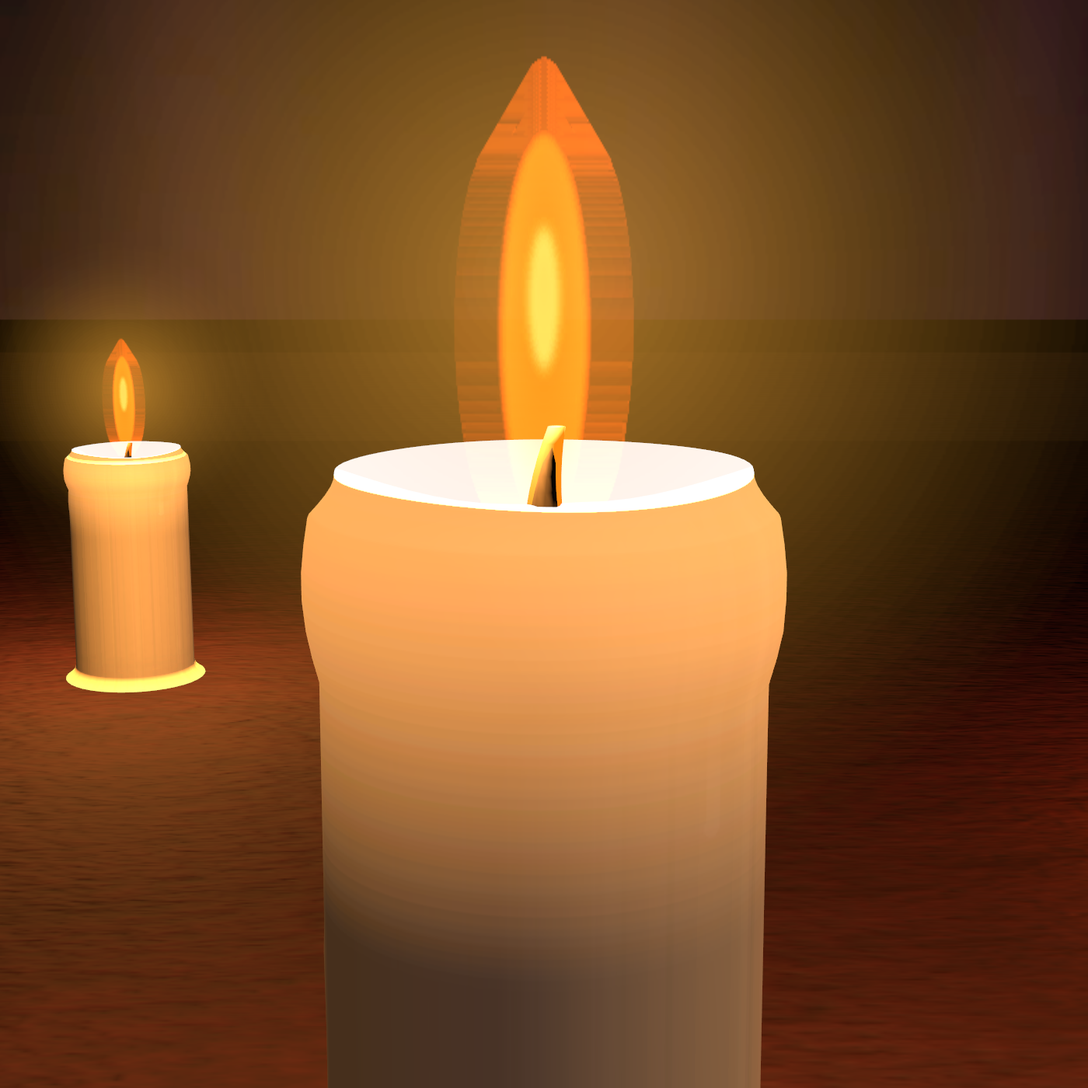
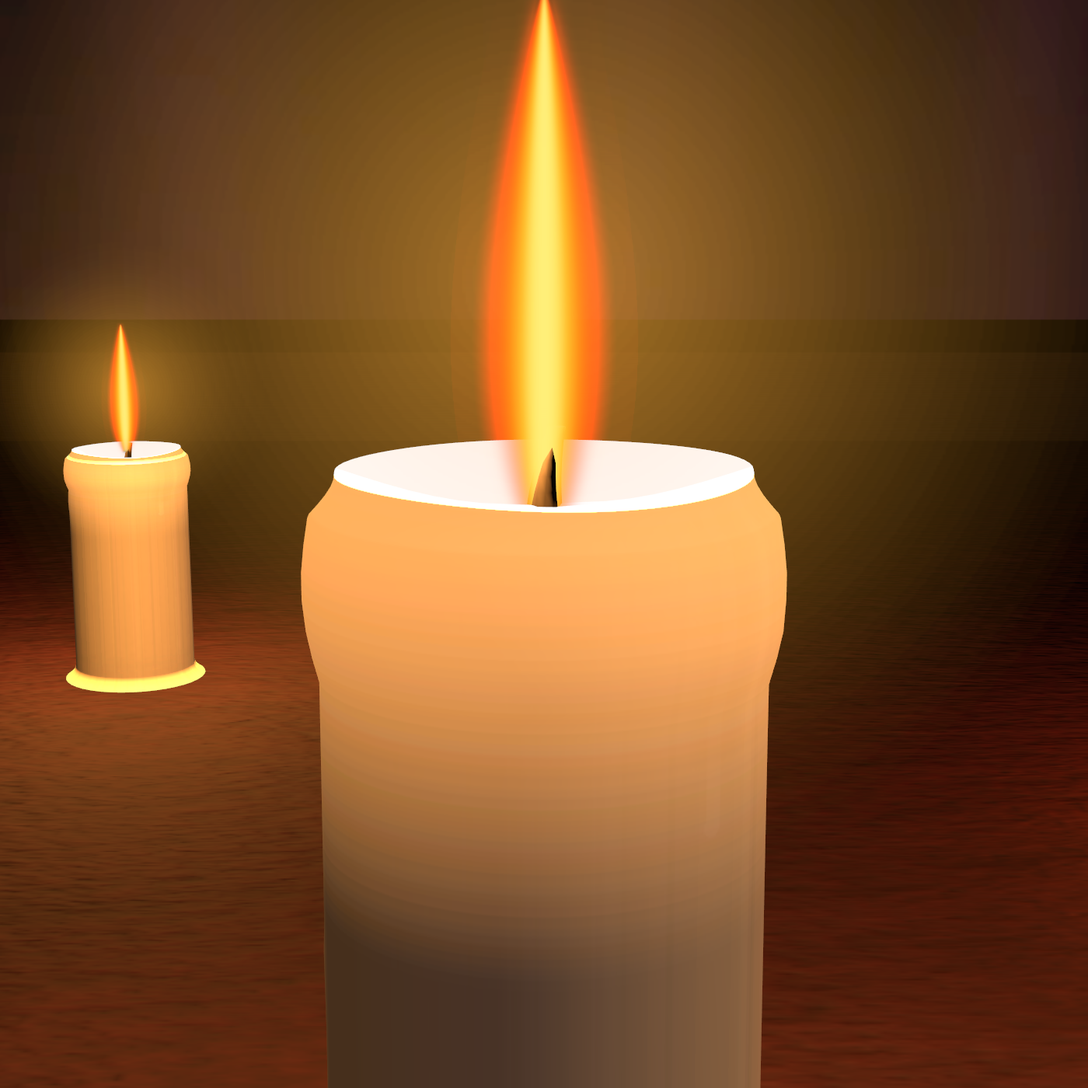
Phase 59: rebuild the candle flame (fix compression banding)
The candle flame is the brightest, most-looked-at object in both scenes and
was the worst: horizontal banding like venetian blinds plus a stepped hard
edge. Root cause was not the art — the 256px source was a clean gradient — but
its importer: a flame is a pure gradient, the single worst case for block
(DXT/BC) compression, which quantised the ramp into visible steps.

- Replace CandleFlame.png with a reproducible 512px flame from a new generator,
  Tools/UiKitGenerator/gen_flame.py (matching the gen_wax pipeline): a true
  candle silhouette (rounded base hugging the wick, low belly, tapered point),
  a heat ramp amber->gold->near-white core, a cool blue root, and a wide soft
  outer glow.
- Import uncompressed so the gradient stays smooth (~0.25 MB RGBA, trivial).
- Phase59FlameQualityTests guards the fix at its weak points: texture >=512,
  imported Uncompressed, generator present on disk, doc present.
- Regenerated the HD archive and Phase 57 candle close-ups on the new flame.

EditMode 282/282, PlayMode 33/33.

Changed region(s): [[0.3993, 0.0, 0.5836, 0.4607], [0.0921, 0.3071, 0.1536, 0.43]]

diff --git a/UnityClient/TarotUnity/Tools/UiKitGenerator/gen_flame.py b/UnityClient/TarotUnity/Tools/UiKitGenerator/gen_flame.py
@@ -1,0 +1,85 @@
+import math
+from PIL import Image, ImageFilter
+
+S = 512
+
+def smooth(t):
+    t = max(0.0, min(1.0, t))
+    return t*t*(3-2*t)
+
+def flame_field(x, y):
+    # normalized coords: u across (-1..1), v up (0 base .. 1 tip)
+    u = (x/S - 0.5) * 2.0
+    v = 1.0 - y/S
+    # teardrop half-width profile: fat low, pinched tip, tucked base
+    if v <= 0.0 or v >= 0.97:
+        return 0.0
+    peak = 0.22            # widest just above the wick
+    wmax = 0.30            # half-width at the belly
+    wbase = 0.16           # the flame still hugs the wick, not a point
+    if v < peak:
+        # round out from the wick to the belly
+        width = wbase + (wmax - wbase) * smooth(v / peak)
+    else:
+        # taper the long way to a soft point at the tip
+        t = (v - peak) / (0.97 - peak)
+        width = wmax * (1.0 - smooth(t)) ** 0.85
+    width = max(width, 0.008)
+    d = abs(u) / width            # 0 at axis, 1 at edge
+    if d >= 1.0:
+        return 0.0
+    # soft radial falloff across the flame body
+    return smooth(1.0 - d)
+
+def colour(intensity, v):
+    # intensity 0..1 maps through a heat ramp; base gets a cool blue tuck
+    i = intensity
+    if i <= 0:
+        return (0,0,0,0)
+    # heat ramp: outer amber -> orange -> gold -> near-white core
+    stops = [
+        (0.00, (60, 20, 4)),
+        (0.30, (196, 78, 16)),
+        (0.55, (240, 140, 40)),
+        (0.78, (255, 200, 96)),
+        (0.92, (255, 240, 200)),
+        (1.00, (255, 252, 244)),
+    ]
+    c = stops[-1][1]
+    for k in range(len(stops)-1):
+        a0,c0 = stops[k]; a1,c1 = stops[k+1]
+        if a0 <= i <= a1:
+            t = (i-a0)/(a1-a0)
+            c = tuple(int(c0[j]+(c1[j]-c0[j])*t) for j in range(3))
+            break
+    r,g,b = c
+    # cool blue root: just above the wick the flame burns bluish
+    root = smooth((0.16 - v)/0.16) if v < 0.16 else 0.0
+    if root > 0:
+        br,bg,bb = (90,140,220)
+        r = int(r*(1-root*0.7)+br*root*0.7)
+        g = int(g*(1-root*0.4)+bg*root*0.4)
+        b = int(b*(1-root*0.2)+bb*root*0.2)
+    a = int(255 * smooth(i))
+    return (r,g,b,a)
+
+img = Image.new("RGBA",(S,S),(0,0,0,0))
+px = img.load()
+for y in range(S):
+    for x in range(S):
+        f = flame_field(x,y)
+        if f>0:
+            # bias intensity toward the core so the hot centre is compact
+            px[x,y] = colour(math.pow(f, 0.85), 1.0-y/S)
+
+# gentle blur unifies the ramp; a wide soft outer glow is added underneath
+core = img.filter(ImageFilter.GaussianBlur(2.5))
+glow = img.filter(ImageFilter.GaussianBlur(14))
+glow_px = glow.load()
+for y in range(S):
+    for x in range(S):
+        r,g,b,a = glow_px[x,y]
+        glow_px[x,y] = (min(255,int(r*1.1)), int(g*0.85), int(b*0.6), int(a*0.5))
+out = Image.alpha_composite(glow, core)
+out.save("CandleFlame.png")
+print("saved CandleFlame_new.png", out.size)

diff --git a/UnityClient/TarotUnity/Assets/Tests/EditMode/Phase59FlameQualityTests.cs b/UnityClient/TarotUnity/Assets/Tests/EditMode/Phase59FlameQualityTests.cs
@@ -1,0 +1,59 @@
+using System.IO;
+using NUnit.Framework;
+using UnityEditor;
+using UnityEngine;
+
+namespace TarotUnity.Tests.EditMode
+{
+    /// <summary>
+    /// Phase 59 replaces the candle flame billboard. The old CandleFlame.png was a
+    /// 256px sprite imported Compressed, and a flame is a pure smooth gradient -
+    /// the one content type that block compression turns into horizontal banding.
+    /// It was also a mystery asset with no generator. These guard the fix: a
+    /// high-resolution, uncompressed texture with a reproducible generator behind it.
+    /// </summary>
+    public sealed class Phase59FlameQualityTests
+    {
+        private const string TexturePath = "Assets/Art/MidnightParlor/Sprites/CandleFlame.png";
+        private const string GeneratorPath = "Tools/UiKitGenerator/gen_flame.py";
+        private const string DocPath = "Docs/PHASE59_FLAME_QUALITY.md";
+
+        [Test]
+        public void TheFlameTextureIsHighResolution()
+        {
+            var tex = AssetDatabase.LoadAssetAtPath<Texture2D>(TexturePath);
+            Assert.That(tex, Is.Not.Null, $"flame texture missing at {TexturePath}");
+            Assert.That(Mathf.Min(tex.width, tex.height), Is.GreaterThanOrEqualTo(512),
+                "the 256px flame magnified to a soft-edged blob; 512+ holds the taper");
+        }
+
+        [Test]
+        public void TheFlameTextureIsImportedUncompressed()
+        {
+            var importer = AssetImporter.GetAtPath(TexturePath) as TextureImporter;
+            Assert.That(importer, Is.Not.Null);
+
+            // A flame is a pure gradient - block compression bands it into venetian
+            // blinds. The default platform settings must not compress it.
+            var defaults = importer.GetDefaultPlatformTextureSettings();
+            Assert.That(defaults.textureCompression, Is.EqualTo(TextureImporterCompression.Uncompressed),
+                "the flame is a smooth gradient; compression banded it - keep it uncompressed");
+        }
+
+        [Test]
+        public void TheFlameHasAReproducibleGenerator()
+        {
+            Assert.That(File.Exists(GeneratorPath), Is.True,
+                $"the flame must be reproducible from {GeneratorPath}, like the wax maps");
+        }
+
+        [Test]
+        public void Phase59DocumentationExists()
+        {
+            Assert.That(File.Exists(DocPath), Is.True, $"Missing Phase59 doc at {DocPath}");
+            var text = File.ReadAllText(DocPath);
+            Assert.That(text, Does.Contain("flame"));
+            Assert.That(text, Does.Contain("compression"));
+        }
+    }
+}

diff --git a/UnityClient/TarotUnity/README.md b/UnityClient/TarotUnity/README.md
@@ -99,4 +99,4 @@ Expected local flow:
 
 `Start Reading -> choose spread -> enter question -> Draw -> click cards to flip -> Reveal Result`
 
-The current slice can run with local placeholder data or the Phase 4 backend integration mode. Phase 6 adds desktop runtime config plus generated macOS and Windows prototype build paths. Phase 7 upgrades the vertical slice UI toward an immersive ritual desktop prototype. Phase 8 adds the first visual identity pass for the table, cards, result frame, and theme palette. Phase 9 adds card-game rhythm scaffolding for shuffle, deal, flip, and result reveal. Phase 10 adds release package readme/config files and player-readable offline/backend status copy. Phase 11 adds screenshot-based visual review artifacts and a first layout adjustment pass. Phase 12 adds card-first reveal anchors and a durable card face-art slot. Phase 13 adds the RWS1909 tarot artwork pipeline, default card artwork catalog, and ReadingRoom/Result scene wiring for real card-face sprites. Phase 14 adds a 2.5D dimensional card reveal layer, card edge/shadow/glow anchors, and stage polish around the existing real card art. Phase 15 adds the first 3D table foundation with card mesh-shell anchors, ritual table depth, warm/cool lighting, and Result card-stage support. Phase 16 adds a controlled ritual aura VFX layer with glow pools, rune-ring anchors, particle anchor markers, and Result aura support. Phase 17 adds lightweight runtime aura motion for rune-ring rotation, glow pulsing, and particle-anchor drift. Phase 18 adds the first true ParticleSystem layer for ambient dust, deck focus, flip sparkle, and Result card motes while preserving the vertical slice. Phase 19 connects shuffle, deal, flip, and result cues to that particle layer through action-triggered VFX integration. Phase 20 enables the cinematic rendering pipeline: HDR color grading, ACES tonemapping, bloom, vignette, SMAA, and HDR-boosted glow/emissive materials across MainMenu, ReadingRoom, and Result. Phase 21 replaces the prototype camera with seated cinematic framing (narrow FOV, research-driven poses), idle breathing, an opening settle-in shot, and a flip punch-in reaction. Phase 22 re-composes the ReadingRoom UI for that camera: a clear card stage band, a bottom action tray holding every clickable control, deactivated flat-era table overlays, and a deck stack visible in the default framing. Phase 23 adds card physicality: hover lift/tilt on face-down cards with near-100ms response, plus research-backed rhythm tuning for the flip punch, flip lift, and deal interval. Phase 24 gives the all-Chinese UI a real typographic identity: it bundles the LXGW WenKai (SIL OFL) calligraphic font so text no longer falls back to an inconsistent OS sans-serif, then bakes a body/display type hierarchy with title outlines across MainMenu, ReadingRoom, and Result through a central TarotUiTheme font system. Phase 25 re-composes the Result payoff screen on rule-of-thirds lines: a full-width gold question header, the drawn card's artwork as a hero in the left third, the AI interpretation as aligned gold-header/ivory-body pairs on a backing panel in the right two-thirds, and a centered footer, with redundant flat-era overlays deactivated and a TarotUiAccentText marker keeping headers gold at runtime. Phase 26 hardens that reading for variable-length backend AI text: each interpretation section uses best-fit text so long copy shrinks to fit its box instead of overflowing into the next section, while short copy stays at full size. Phase 27 upgrades the card faces to HD: all 78 authentic public-domain Rider-Waite-Smith 1909 scans were re-sourced at high resolution (~740x1280), imported as sprites, and wired through the catalog so flipping a card and the result hero show crisp art. Phase 28 gives the flipped card face a holographic foil sheen: a custom URP shader adds a view-angle glare band plus subtle iridescence that sweeps as the card tilts, so the HD face reads as a glossy, dimensional object. Phase 29 replaces Phase 26's best-fit shrink with a true scrollable reading panel on the Result screen: the four interpretation sections are reparented into a vertical ScrollRect (RectMask2D viewport + VerticalLayoutGroup/ContentSizeFitter Content), so any length of backend AI text renders at full size and scrolls instead of shrinking or overflowing. Phase 30 unifies the three screens' secondary spacing/alignment: a read-only layout audit confirmed they already share one CanvasScaler (1280x720, match 0.5) and symmetric centering, so this phase codifies that rhythm in a shared `TarotUiSpacing` source of truth and adds cross-screen regression tests rather than risk speculative repositioning. Phase 31 builds a complete HD visual archive (2560x1440) of the current screens - MainMenu, ReadingRoom, and the Result default/long-reading states - into `Docs/VisualReview/Phase31_HDArchive/` for review, and flags a card-face sizing question on the hero prefab (the HD sprites import larger than the face slot was tuned for) for a feedback-tuned follow-up. Phase 32 fixes that card-face bug: `CardView.FitFaceArtwork` sizes the face artwork to the card footprint regardless of sprite resolution/PPU, and the prefab lifts the face renderer clear of the cream front planes so it is no longer occluded - flipping a card now shows the HD art correctly sized and crisp on the card. Phase 33 gives the game actual sound: the audio system was fully wired but silent (empty cueMap, beep fallback), so this adds seven original royalty-free synthesized SFX (one per presentation cue) plus a looping ambient music bed, assigned on the persistent Boot `AudioManager`. Phase 34 adds a main-menu quit button so desktop players can exit in-game. Phase 35 repairs three visual-review defects: the leftover 3D result card stage no longer peeks out from behind the reading panel, the flat-era ResultReadingFrame no longer darkens the hero card slot with a seam, and the main menu now reads as primary plate / status line / quiet quit link. Phase 36 is the first performance pass: the flip path no longer scans the scene per click, a PlayMode probe measures the real three-card slice (steady state is allocation-free, main-thread frames ~0.1 ms in batch), and the doc records how to read real GPU numbers with the Metal HUD. Phase 37 opens the Midnight Parlor visual redesign (Hearthstone-benchmark research, art direction, CC0 PBR surfaces, and a locally composed gold UI kit with a celestial card back; provenance in `Docs/THIRD_PARTY_ASSETS.md`). Phase 38 rebuilds the ReadingRoom on that foundation: one velvet-and-walnut table stage with gold card sockets, a staggered deck stack, and the real composed card back on the card prefab, with the superseded flat-plane era deleted and guarded against resurrection. Phase 39 reskins the ReadingRoom chrome onto that table: the step tracker, action dock, question input, and all four buttons wear the gold nine-slice plaques, with clean button ColorBlocks and the redundant flat-era frames deactivated. Phase 40 re-composes the MainMenu (candlelit tabletop vignette: deck stack, scattered cards, candle halos replace the deleted disc/slab) and the Result screen (gold-framed hero showcase and reading scroll, diamond dividers, radial candle glow) on the same stage. Phase 41 closes the redesign out: HD archive regenerated on the new look, 14 orphaned legacy materials swept after a GUID reference check, suites green, fresh desktop build. Phase 42 answers the first playthrough: the player now presents as a borderless fullscreen window at native resolution (a stretched fixed 720p window, not render scale or post-processing, was what softened every glyph), and the main menu is restaged as a lit room - stock daylight skybox ambient replaced with a near-black floor so the candles own the lighting, a seated 27deg/36mm framing instead of a 10.8deg wide-angle, a composed parlor haze instead of a black void, real candles with emissive wax, and a deep-oxblood velvet that lets the gold read. Phase 43 changes the text rendering method itself to TextMeshPro SDF (dynamic atlas, so arbitrary backend Chinese still works - the reason Phase 24 rejected TMP no longer holds), gilds the menu title with a real shader gradient and stroke, and fixes the sharpness regression Phase 42 never actually shipped: the Phase 6 build setup was silently reverting the fullscreen/resolution fix before every build. Phase 44 answers the second menu review: the loose cards no longer clip (they were coplanar), the copy speaks in ritual (入席问牌 / 离席) instead of instructions, the centre column offers one way in with the status line at the foot and quit as a bottom-right link, and the table carries an arcane circle decal, dust motes and trinkets. Phase 45 fills the menu's mid-ground - velvet drapery in the backdrop, a violet-lit scrying orb (the palette's one cold note), a censer with burning coals and smoke, and two more candles at a second depth - and binds the type into one block with a gold rule and tracked display cut. Phase 46 rebuilds the candles as wax rather than tubing - a poured grain with drips and soot, and a translucency map so the flame lights the wax it sits in instead of the whole stick at one value - and gives every flame a seeded two-band Perlin flicker. Phase 47 makes the scrying orb read as glass with a custom Fresnel/parallax-interior shader (the geometry was never the problem - a downloaded asset would have been a sphere plus someone else's art direction), bevels the primary button, and lifts the deck's tint so its stacked edges can be counted. Phase 48 measures the menu backdrop's geometric ceiling: at this camera the highest visible world Y at the backdrop's depth is 0.34, so a lamp/window/picture cannot be in shot and Phase 45's drapery was never on screen (now regenerated into the visible band). The moonlight it attempted was dropped as unverifiable. Phase 49 starts on the screen the player actually sits in: the ReadingRoom still ran Unity's daylight skybox ambient over a midnight room, and nothing in it emitted light at all. It now carries the menu's lighting contract and four real candles. Phase 50 finishes the TMP migration Phase 43 started, on that same screen: the ReadingRoom's 15 legacy UI.Text (which soften at the built resolution) all become TextMeshPro SDF, and the one element the menu never had - the question field - is rebuilt from a legacy InputField into a TMP_InputField (correct masked Text Area, an ivory caret that is actually visible on the dark ground, an italic muted placeholder), with ReadingRoomController's four fields re-typed to the TMP equivalents. Phase 51 completes the migration on the Result screen - its 13 legacy Text become TMP SDF (ResultPanelPresenter's seven readouts, four of them carrying arbitrary-length backend AI copy, re-typed to TMP_Text; the Phase 29 reading scroll still works), and the scene adopts the same Flat ambient contract as the other two, stated honestly as a data-correctness change since this Overlay-over-solid-clear screen shows no visible difference from it. All three shipping screens are TMP SDF now, with no legacy UI.Text or InputField remaining anywhere. Phase 52 is a game-feel pass on the card flip and the camera: the flip gains real weight - a wind-up dip, an accelerate-through-the-reveal whip (it used to crawl at the edge-on seam), a scale pop on the face, and a rotational overshoot that damps to an exact rest - and the camera now fires its impact shake on the exact reveal frame instead of at the earlier lean-in peak, so the punch lands with the face. Every motion is a serialized knob on CardFlipController; a PlayMode test proves the flip's secondary motion is present and settles without drift, though the feel itself is the player's to judge. Phase 53 brings the holographic foil (Phase 28's, on the flipped 3D face) to the Result hero card: since that card is a UI Image on an Overlay canvas with no view angle, a new UI shader (`TarotUnity/HolographicCardUI`) carries the same glare/iridescence driven by a fed-in sheen uniform, and HolographicHeroCard animates it - a slow idle drift so the foil is always alive, and on hover the band follows the pointer while the card tilts toward it. Phase 54 gives the deal its landing: the dealt card used to fly its arc and then snap dead onto the slot, and now it touches down - a squash-and-recover on contact (−10% height, springing back to an exact rest over 0.14 s) with a subtle camera kick on the impact frame, the deal's counterpart to the flip's reveal shake, while the Phase 9 arc pacing stays untouched. Phase 55 completes the motion chain at its first beat: the shuffle used to be sound and dust over a perfectly still deck, and now the stack itself plays - a press-down anticipation, a riffle ripple running bottom-to-top through the stacked cards (each pops with a small twist and drops back with weight), a square-up squash with a camera kick on the contact frame, and an exact settle back to the authored stagger, timed to the Phase 9 shuffle breath. Phase 58 was opened to fix the menu's front candles rendering as saturated red instead of cream wax, and ended without touching a light or a material: the candles were never red, the capture pipeline was. The wax is RealtimeEmissive and realtime GI does not resolve on the frame a scene loads, so the first render reads RGB(246,77,23) and every render after it reads RGB(233,177,78) - and all fifteen capture builders rendered exactly once after opening a scene, meaning every visual review in this project was looking at unsettled lighting the player never saw. `CaptureRig.RenderConverged` now fronts all of them, with a test that fails on the next direct `Camera.Render()` anyone writes. Phase 57 models the candles instead of stacking them: a read-only diagnosis found every candle in both scenes was four Unity primitives at 20 radial segments, with a `Lip` disc wider than the body reading as a machined collar over a flat lid, so `CandleMeshBuilder` now lathes one continuous surface per candle along a real profile - pooled base, tapered body, melted shoulder, rolled rim, a burn crater dishing to the wick, an uneven burn line, and the nine drips as geometry at the exact angles the wax texture paints them. Phase 56 cuts release `0.9.0`, the presentation-complete build: the version had not moved since Phase 6 set it, so everything from the visual identity through the Midnight Parlor redesign, the TMP migration, and the full card motion chain had been shipping as `0.6.0`. It is held below 1.0 deliberately - the backend reading path is not yet verified end-to-end in a playthrough. The Windows release zip is generated at `Builds/Desktop/Release/TarotUnity-Windows-x64.zip`.
+The current slice can run with local placeholder data or the Phase 4 backend integration mode. Phase 6 adds desktop runtime config plus generated macOS and Windows prototype build paths. Phase 7 upgrades the vertical slice UI toward an immersive ritual desktop prototype. Phase 8 adds the first visual identity pass for the table, cards, result frame, and theme palette. Phase 9 adds card-game rhythm scaffolding for shuffle, deal, flip, and result reveal. Phase 10 adds release package readme/config files and player-readable offline/backend status copy. Phase 11 adds screenshot-based visual review artifacts and a first layout adjustment pass. Phase 12 adds card-first reveal anchors and a durable card face-art slot. Phase 13 adds the RWS1909 tarot artwork pipeline, default card artwork catalog, and ReadingRoom/Result scene wiring for real card-face sprites. Phase 14 adds a 2.5D dimensional card reveal layer, card edge/shadow/glow anchors, and stage polish around the existing real card art. Phase 15 adds the first 3D table foundation with card mesh-shell anchors, ritual table depth, warm/cool lighting, and Result card-stage support. Phase 16 adds a controlled ritual aura VFX layer with glow pools, rune-ring anchors, particle anchor markers, and Result aura support. Phase 17 adds lightweight runtime aura motion for rune-ring rotation, glow pulsing, and particle-anchor drift. Phase 18 adds the first true ParticleSystem layer for ambient dust, deck focus, flip sparkle, and Result card motes while preserving the vertical slice. Phase 19 connects shuffle, deal, flip, and result cues to that particle layer through action-triggered VFX integration. Phase 20 enables the cinematic rendering pipeline: HDR color grading, ACES tonemapping, bloom, vignette, SMAA, and HDR-boosted glow/emissive materials across MainMenu, ReadingRoom, and Result. Phase 21 replaces the prototype camera with seated cinematic framing (narrow FOV, research-driven poses), idle breathing, an opening settle-in shot, and a flip punch-in reaction. Phase 22 re-composes the ReadingRoom UI for that camera: a clear card stage band, a bottom action tray holding every clickable control, deactivated flat-era table overlays, and a deck stack visible in the default framing. Phase 23 adds card physicality: hover lift/tilt on face-down cards with near-100ms response, plus research-backed rhythm tuning for the flip punch, flip lift, and deal interval. Phase 24 gives the all-Chinese UI a real typographic identity: it bundles the LXGW WenKai (SIL OFL) calligraphic font so text no longer falls back to an inconsistent OS sans-serif, then bakes a body/display type hierarchy with title outlines across MainMenu, ReadingRoom, and Result through a central TarotUiTheme font system. Phase 25 re-composes the Result payoff screen on rule-of-thirds lines: a full-width gold question header, the drawn card's artwork as a hero in the left third, the AI interpretation as aligned gold-header/ivory-body pairs on a backing panel in the right two-thirds, and a centered footer, with redundant flat-era overlays deactivated and a TarotUiAccentText marker keeping headers gold at runtime. Phase 26 hardens that reading for variable-length backend AI text: each interpretation section uses best-fit text so long copy shrinks to fit its box instead of overflowing into the next section, while short copy stays at full size. Phase 27 upgrades the card faces to HD: all 78 authentic public-domain Rider-Waite-Smith 1909 scans were re-sourced at high resolution (~740x1280), imported as sprites, and wired through the catalog so flipping a card and the result hero show crisp art. Phase 28 gives the flipped card face a holographic foil sheen: a custom URP shader adds a view-angle glare band plus subtle iridescence that sweeps as the card tilts, so the HD face reads as a glossy, dimensional object. Phase 29 replaces Phase 26's best-fit shrink with a true scrollable reading panel on the Result screen: the four interpretation sections are reparented into a vertical ScrollRect (RectMask2D viewport + VerticalLayoutGroup/ContentSizeFitter Content), so any length of backend AI text renders at full size and scrolls instead of shrinking or overflowing. Phase 30 unifies the three screens' secondary spacing/alignment: a read-only layout audit confirmed they already share one CanvasScaler (1280x720, match 0.5) and symmetric centering, so this phase codifies that rhythm in a shared `TarotUiSpacing` source of truth and adds cross-screen regression tests rather than risk speculative repositioning. Phase 31 builds a complete HD visual archive (2560x1440) of the current screens - MainMenu, ReadingRoom, and the Result default/long-reading states - into `Docs/VisualReview/Phase31_HDArchive/` for review, and flags a card-face sizing question on the hero prefab (the HD sprites import larger than the face slot was tuned for) for a feedback-tuned follow-up. Phase 32 fixes that card-face bug: `CardView.FitFaceArtwork` sizes the face artwork to the card footprint regardless of sprite resolution/PPU, and the prefab lifts the face renderer clear of the cream front planes so it is no longer occluded - flipping a card now shows the HD art correctly sized and crisp on the card. Phase 33 gives the game actual sound: the audio system was fully wired but silent (empty cueMap, beep fallback), so this adds seven original royalty-free synthesized SFX (one per presentation cue) plus a looping ambient music bed, assigned on the persistent Boot `AudioManager`. Phase 34 adds a main-menu quit button so desktop players can exit in-game. Phase 35 repairs three visual-review defects: the leftover 3D result card stage no longer peeks out from behind the reading panel, the flat-era ResultReadingFrame no longer darkens the hero card slot with a seam, and the main menu now reads as primary plate / status line / quiet quit link. Phase 36 is the first performance pass: the flip path no longer scans the scene per click, a PlayMode probe measures the real three-card slice (steady state is allocation-free, main-thread frames ~0.1 ms in batch), and the doc records how to read real GPU numbers with the Metal HUD. Phase 37 opens the Midnight Parlor visual redesign (Hearthstone-benchmark research, art direction, CC0 PBR surfaces, and a locally composed gold UI kit with a celestial card back; provenance in `Docs/THIRD_PARTY_ASSETS.md`). Phase 38 rebuilds the ReadingRoom on that foundation: one velvet-and-walnut table stage with gold card sockets, a staggered deck stack, and the real composed card back on the card prefab, with the superseded flat-plane era deleted and guarded against resurrection. Phase 39 reskins the ReadingRoom chrome onto that table: the step tracker, action dock, question input, and all four buttons wear the gold nine-slice plaques, with clean button ColorBlocks and the redundant flat-era frames deactivated. Phase 40 re-composes the MainMenu (candlelit tabletop vignette: deck stack, scattered cards, candle halos replace the deleted disc/slab) and the Result screen (gold-framed hero showcase and reading scroll, diamond dividers, radial candle glow) on the same stage. Phase 41 closes the redesign out: HD archive regenerated on the new look, 14 orphaned legacy materials swept after a GUID reference check, suites green, fresh desktop build. Phase 42 answers the first playthrough: the player now presents as a borderless fullscreen window at native resolution (a stretched fixed 720p window, not render scale or post-processing, was what softened every glyph), and the main menu is restaged as a lit room - stock daylight skybox ambient replaced with a near-black floor so the candles own the lighting, a seated 27deg/36mm framing instead of a 10.8deg wide-angle, a composed parlor haze instead of a black void, real candles with emissive wax, and a deep-oxblood velvet that lets the gold read. Phase 43 changes the text rendering method itself to TextMeshPro SDF (dynamic atlas, so arbitrary backend Chinese still works - the reason Phase 24 rejected TMP no longer holds), gilds the menu title with a real shader gradient and stroke, and fixes the sharpness regression Phase 42 never actually shipped: the Phase 6 build setup was silently reverting the fullscreen/resolution fix before every build. Phase 44 answers the second menu review: the loose cards no longer clip (they were coplanar), the copy speaks in ritual (入席问牌 / 离席) instead of instructions, the centre column offers one way in with the status line at the foot and quit as a bottom-right link, and the table carries an arcane circle decal, dust motes and trinkets. Phase 45 fills the menu's mid-ground - velvet drapery in the backdrop, a violet-lit scrying orb (the palette's one cold note), a censer with burning coals and smoke, and two more candles at a second depth - and binds the type into one block with a gold rule and tracked display cut. Phase 46 rebuilds the candles as wax rather than tubing - a poured grain with drips and soot, and a translucency map so the flame lights the wax it sits in instead of the whole stick at one value - and gives every flame a seeded two-band Perlin flicker. Phase 47 makes the scrying orb read as glass with a custom Fresnel/parallax-interior shader (the geometry was never the problem - a downloaded asset would have been a sphere plus someone else's art direction), bevels the primary button, and lifts the deck's tint so its stacked edges can be counted. Phase 48 measures the menu backdrop's geometric ceiling: at this camera the highest visible world Y at the backdrop's depth is 0.34, so a lamp/window/picture cannot be in shot and Phase 45's drapery was never on screen (now regenerated into the visible band). The moonlight it attempted was dropped as unverifiable. Phase 49 starts on the screen the player actually sits in: the ReadingRoom still ran Unity's daylight skybox ambient over a midnight room, and nothing in it emitted light at all. It now carries the menu's lighting contract and four real candles. Phase 50 finishes the TMP migration Phase 43 started, on that same screen: the ReadingRoom's 15 legacy UI.Text (which soften at the built resolution) all become TextMeshPro SDF, and the one element the menu never had - the question field - is rebuilt from a legacy InputField into a TMP_InputField (correct masked Text Area, an ivory caret that is actually visible on the dark ground, an italic muted placeholder), with ReadingRoomController's four fields re-typed to the TMP equivalents. Phase 51 completes the migration on the Result screen - its 13 legacy Text become TMP SDF (ResultPanelPresenter's seven readouts, four of them carrying arbitrary-length backend AI copy, re-typed to TMP_Text; the Phase 29 reading scroll still works), and the scene adopts the same Flat ambient contract as the other two, stated honestly as a data-correctness change since this Overlay-over-solid-clear screen shows no visible difference from it. All three shipping screens are TMP SDF now, with no legacy UI.Text or InputField remaining anywhere. Phase 52 is a game-feel pass on the card flip and the camera: the flip gains real weight - a wind-up dip, an accelerate-through-the-reveal whip (it used to crawl at the edge-on seam), a scale pop on the face, and a rotational overshoot that damps to an exact rest - and the camera now fires its impact shake on the exact reveal frame instead of at the earlier lean-in peak, so the punch lands with the face. Every motion is a serialized knob on CardFlipController; a PlayMode test proves the flip's secondary motion is present and settles without drift, though the feel itself is the player's to judge. Phase 53 brings the holographic foil (Phase 28's, on the flipped 3D face) to the Result hero card: since that card is a UI Image on an Overlay canvas with no view angle, a new UI shader (`TarotUnity/HolographicCardUI`) carries the same glare/iridescence driven by a fed-in sheen uniform, and HolographicHeroCard animates it - a slow idle drift so the foil is always alive, and on hover the band follows the pointer while the card tilts toward it. Phase 54 gives the deal its landing: the dealt card used to fly its arc and then snap dead onto the slot, and now it touches down - a squash-and-recover on contact (−10% height, springing back to an exact rest over 0.14 s) with a subtle camera kick on the impact frame, the deal's counterpart to the flip's reveal shake, while the Phase 9 arc pacing stays untouched. Phase 55 completes the motion chain at its first beat: the shuffle used to be sound and dust over a perfectly still deck, and now the stack itself plays - a press-down anticipation, a riffle ripple running bottom-to-top through the stacked cards (each pops with a small twist and drops back with weight), a square-up squash with a camera kick on the contact frame, and an exact settle back to the authored stagger, timed to the Phase 9 shuffle breath. Phase 59 rebuilds the candle flame - the focal light's brightest object and, after a three-screen review, the worst-looking one: it showed horizontal banding and a stepped hard edge. The cause was not the art but the import (a pure-gradient flame compressed into venetian blinds by block compression), so a reproducible `gen_flame.py` now composes a 512px flame with a true candle silhouette, a heat ramp to a white core, and a cool blue root, imported uncompressed. Phase 58 was opened to fix the menu's front candles rendering as saturated red instead of cream wax, and ended without touching a light or a material: the candles were never red, the capture pipeline was. The wax is RealtimeEmissive and realtime GI does not resolve on the frame a scene loads, so the first render reads RGB(246,77,23) and every render after it reads RGB(233,177,78) - and all fifteen capture builders rendered exactly once after opening a scene, meaning every visual review in this project was looking at unsettled lighting the player never saw. `CaptureRig.RenderConverged` now fronts all of them, with a test that fails on the next direct `Camera.Render()` anyone writes. Phase 57 models the candles instead of stacking them: a read-only diagnosis found every candle in both scenes was four Unity primitives at 20 radial segments, with a `Lip` disc wider than the body reading as a machined collar over a flat lid, so `CandleMeshBuilder` now lathes one continuous surface per candle along a real profile - pooled base, tapered body, melted shoulder, rolled rim, a burn crater dishing to the wick, an uneven burn line, and the nine drips as geometry at the exact angles the wax texture paints them. Phase 56 cuts release `0.9.0`, the presentation-complete build: the version had not moved since Phase 6 set it, so everything from the visual identity through the Midnight Parlor redesign, the TMP migration, and the full card motion chain had been shipping as `0.6.0`. It is held below 1.0 deliberately - the backend reading path is not yet verified end-to-end in a playthrough. The Windows release zip is generated at `Builds/Desktop/Release/TarotUnity-Windows-x64.zip`.

diff --git a/UnityClient/TarotUnity/Docs/PHASE59_FLAME_QUALITY.md b/UnityClient/TarotUnity/Docs/PHASE59_FLAME_QUALITY.md
@@ -1,0 +1,67 @@
+# Phase 59 — The Flame, Rebuilt
+
+Date: 2026-07-21
+
+A three-screen review (on the Phase 58 converged capture pipeline) found the
+scenes in good shape except for one thing in every candlelit frame: the flame.
+The candles are the focal light of both the menu and the reading room, and the
+flame is the brightest, most-looked-at object in each — and it was the worst.
+
+## The diagnosis
+
+A close-up showed two defects: **horizontal banding** running across the whole
+flame like venetian blinds, and a **stepped hard edge** down the top centre.
+The source sprite, `CandleFlame.png`, turned out to be a clean 256px soft
+gradient with no banding in it at all — so the banding was introduced
+downstream. Its importer settings were the cause:
+
+```
+textureCompression: 1   (Compressed)
+compressionQuality: 50
+```
+
+A flame is a pure smooth gradient, which is the single worst case for block
+(DXT/BC) compression — the 4x4 blocks quantise a smooth ramp into visible
+steps. The banding was the compressor, not the art.
+
+Two secondary problems: at 256px the flame magnified in-frame to a soft blob,
+and — unlike the wax maps, which regenerate from `gen_wax.py` — it was a
+mystery asset with no generator behind it.
+
+## What replaced it
+
+`Tools/UiKitGenerator/gen_flame.py`, a reproducible generator (matching the wax
+pipeline), composes a 512px flame from a real profile rather than a blurred
+blob:
+
+- **A true candle-flame silhouette** — a rounded base that hugs the wick, the
+  belly widest just above it, tapering the long way to a soft point. Three
+  earlier shapes were rejected against previews: a thread-thin jet, a blunt
+  bullet, and a symmetric olive that pinched at the base (a flame is full at
+  the bottom, not pointed).
+- **A heat ramp through the body** — deep amber at the edge through orange and
+  gold to a near-white core, so the flame reads as hot in the middle and cooler
+  at its skin.
+- **A cool blue root** — just above the wick, where a real flame burns bluish.
+- **A wide soft outer glow** composited under the core, so it sits in light.
+
+Imported **uncompressed**, so the gradient stays smooth. At 512px RGBA that is
+a quarter-megabyte texture — trivial, and the banding is simply gone.
+
+## Verification
+
+- Before/after A/B at the player's framing (`Docs/VisualReview/`): the old flame
+  is banded, hard-edged, and reads as a flat smear; the new one is a clean
+  tapered teardrop that sits in its glow.
+- `Phase59FlameQualityTests` guards the fix at its weak points: the texture is
+  512+, imported uncompressed, and has its generator on disk. The next person
+  who re-imports it with compression on, or deletes the generator, fails.
+- HD archive regenerated on the new flame.
+
+## Honest note
+
+The new flame is a little slimmer than the old banded one — perhaps 30% less
+area — because the old blob bled wide. The new proportion is truer to a real
+candle and far cleaner, but whether it wants slightly more *presence* (a larger
+billboard quad) is a taste call left for a play session. The quad sizing that
+six phases tuned was not touched here; this pass is the texture and its import.

diff --git a/UnityClient/TarotUnity/Docs/UI_COMPLETION_MAINLINE.md b/UnityClient/TarotUnity/Docs/UI_COMPLETION_MAINLINE.md
@@ -1037,6 +1037,27 @@ Remaining limitation:
 - EditMode 278/278, PlayMode 33/33. Lesson kept: when several different changes
   produce the same result, doubt the instrument before the hypothesis.
 
+### Phase 59: The flame, rebuilt
+
+- A three-screen review on the Phase 58 converged pipeline found the scenes good
+  except the flame - the focal light's brightest, most-looked-at object, and the
+  worst-looking one. Close-up: horizontal banding across the whole flame plus a
+  stepped hard edge down the top centre.
+- Root cause was not the art: the source sprite is a clean 256px gradient, but
+  it imported Compressed (textureCompression 1), and a pure gradient is the
+  worst case for block compression - the 4x4 blocks quantise the ramp into
+  venetian blinds. It was also a 256px mystery asset with no generator.
+- Replaced with Tools/UiKitGenerator/gen_flame.py (reproducible, matching the
+  wax pipeline): a 512px flame with a true candle silhouette (rounded base
+  hugging the wick, belly low, tapering the long way to a point - three earlier
+  shapes rejected against previews), a heat ramp from amber edge to white core,
+  a cool blue root, and a soft outer glow. Imported uncompressed.
+- Verified: before/after A/B at player framing (old banded and hard-edged, new a
+  clean teardrop in its glow); Phase59FlameQualityTests guards 512+/uncompressed/
+  generator-present; HD archive regenerated. Honest note: the new flame is ~30%
+  slimmer (the old blob bled wide) - truer and cleaner, but whether it wants more
+  presence via a larger quad is a taste call left for a play session.
+
 ## Operating Rule
 
 Every phase ends with the established end-check flow:
